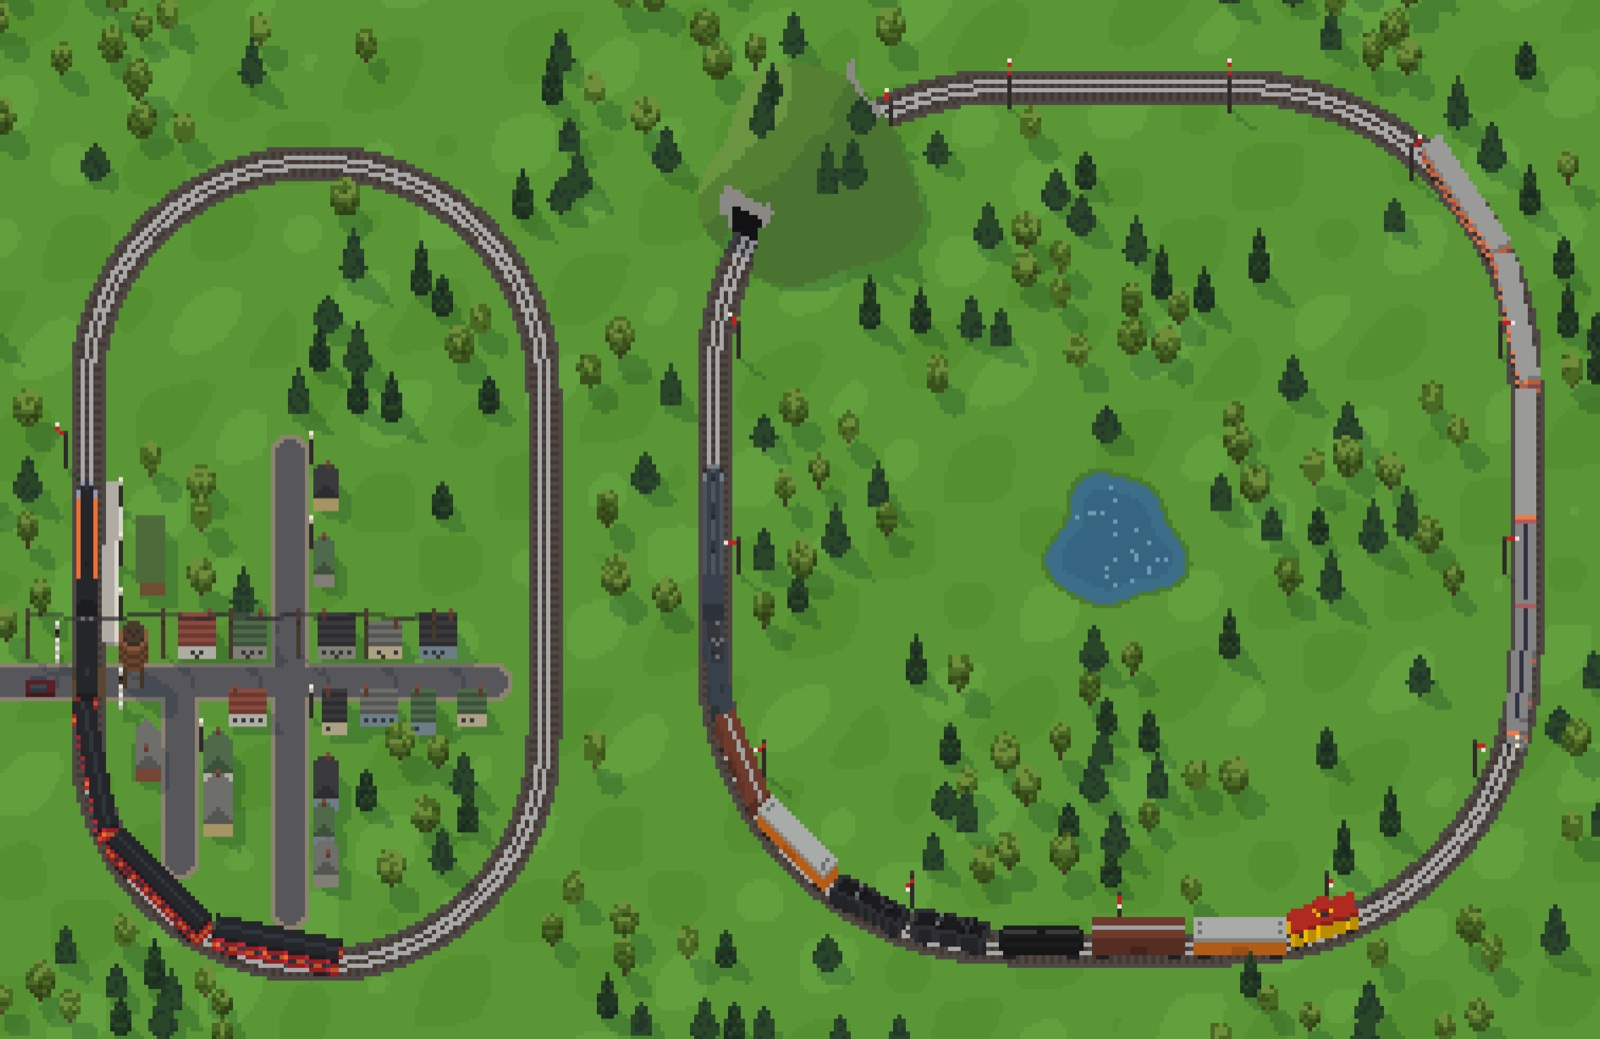
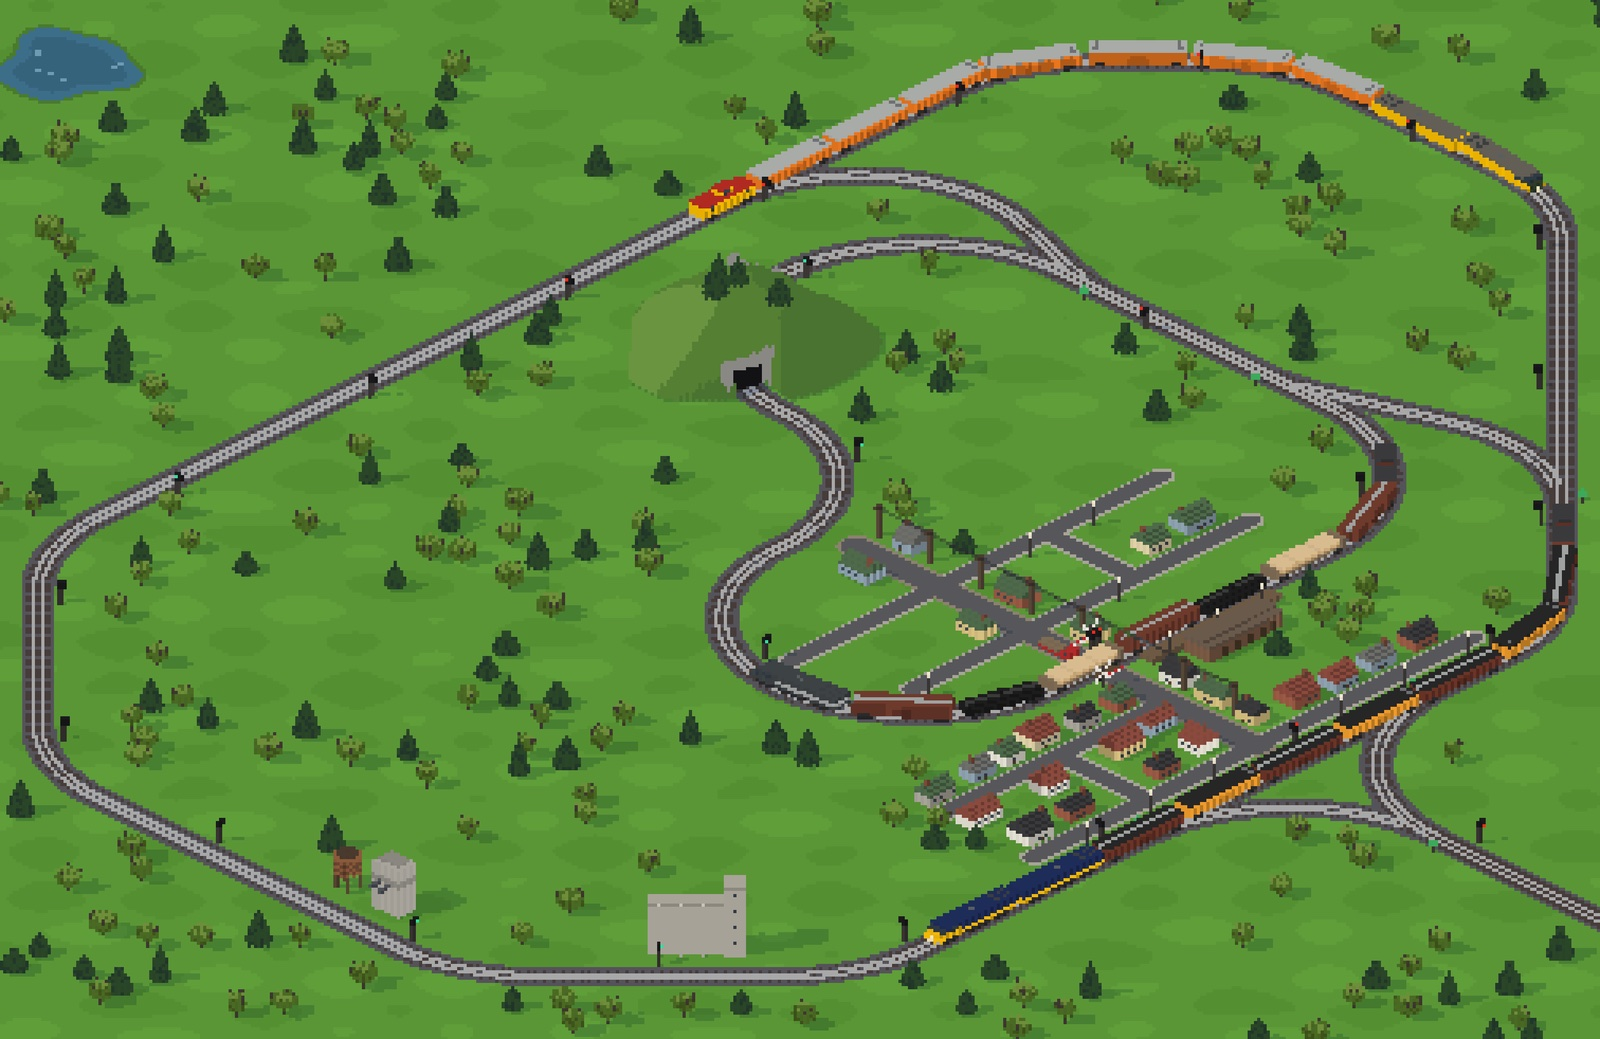
Show Pixel Railway's isometric view in its menu tile and Settings still
The still was still the top-down view, which is gone. The new one is a US
transition freight layout on the laptop canvas, picked from six layouts in
every era.

diff --git a/docs/pixel-railway.md b/docs/pixel-railway.md
@@ -7,7 +7,7 @@ Dave asked for it on 2026-10-15: "a top down procedurally generate model train t
 - **Source:** `Sources/Atrium/PixelRailway.swift` (the scene: its canvas, the clock, the weather, Settings and the fade to a new layout) and `Sources/RailLayout/`, its own module built with `-O`: `Art.swift` (materials, every vehicle as slices, the trains, and what each era puts by the line), `Season.swift` (the time of year), `Render.swift` (the view, the voxel ray march, the canvas, the scenery models), `Layout.swift` (the loops and their crossings), `Scenery.swift` (everything round the track), `Static.swift` (the picture under the trains), `Sim.swift` (the trains, signals and the road), `Railway.swift` (the whole, and drawing the moving things each frame).
 - **Data:** none. Every layout is made from the clock; every vehicle and building is a few strings of slices.
 - **Tests:** `Tests/AtriumTests/RailwayTests.swift` writes one layout in each era, by day, at night and in snow, to `$TMPDIR/atrium-railway/` (`RAILWAY_SEED=` picks another).
-- **Pictures of it:** `docs/images/pixel-railway.jpg`.
+- **Pictures of it:** `docs/images/pixel-railway.jpg`, also the Settings page and menu tile (`preview-pixel-railway.jpg`): US transition freight from seed 4 on the laptop's 504 by 328 canvas, three trains, swaps every 40–90 s, in summer, 40 s in, drawn 6 device pixels to the art pixel (2x Retina) and cropped to 3024 by 1964. Picked from seeds 1–6 in every era.
 
 ## Dave's decisions (2026-10-15)
 
